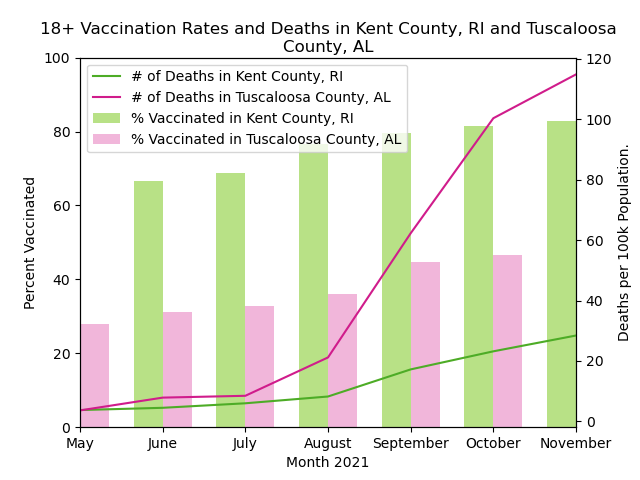
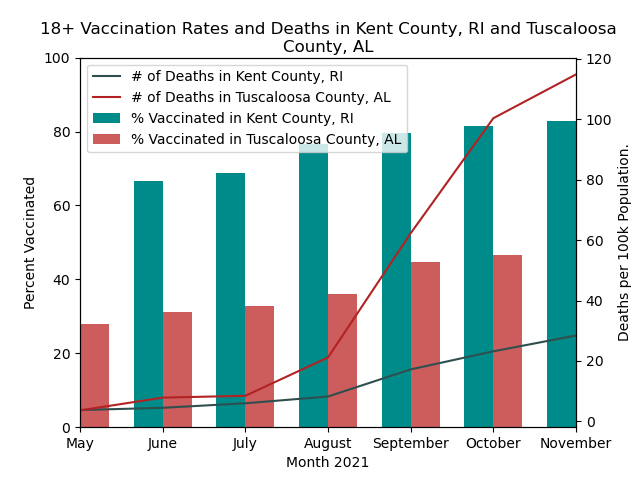
Switched back to old colors but with contrasting arrangement

diff --git a/src/comparison.py b/src/comparison.py
@@ -57,11 +57,11 @@ def comparison(FIPS_1='44003', FIPS_2='01125'):
     ax1.set_title('18+ Vaccination Rates and Deaths in '+FIPS_1_name+" and "+FIPS_2_name, wrap=True)
     ax1.set_xlabel('Month 2021')
     ax1.set_ylabel('Percent Vaccinated') 
-    ax1.bar(x - width/2, FIPS_1_vax, width, color='#b8e186', label = '% Vaccinated in '+FIPS_1_name)
-    ax1.bar(x + width/2, FIPS_2_vax, width, color='#f1b6da', label = '% Vaccinated in '+FIPS_2_name)
+    ax1.bar(x - width/2, FIPS_1_vax, width, color='darkcyan', label = '% Vaccinated in '+FIPS_1_name)
+    ax1.bar(x + width/2, FIPS_2_vax, width, color='indianred', label = '% Vaccinated in '+FIPS_2_name)
     ax2 = ax1.twinx()
-    ax2.plot(x, FIPS_1_death, color='#4dac26', label = '# of Deaths in '+FIPS_1_name)
-    ax2.plot(x, FIPS_2_death, color='#d01c8b', label = '# of Deaths in '+FIPS_2_name)
+    ax2.plot(x, FIPS_1_death, color='darkslategray', label = '# of Deaths in '+FIPS_1_name)
+    ax2.plot(x, FIPS_2_death, color='firebrick', label = '# of Deaths in '+FIPS_2_name)
     ax2.set_ylabel('Deaths per 100k Population.')
     handles_1, _ = ax1.get_legend_handles_labels()
     handles_2, _ = ax2.get_legend_handles_labels()
